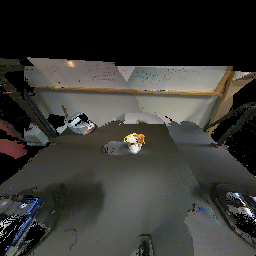
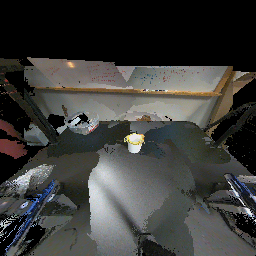
update cropping

diff --git a/data_processing.py b/data_processing.py
@@ -53,53 +53,53 @@ class Projector:
                         depth_scale,
                         depth_max
                         ):
-        depth = 2.0*np.ones((height, width, 1), dtype = float)
+        depth = 10.0*np.ones((height, width, 1), dtype = float)
         color = np.zeros((height, width, 3), dtype=np.uint8)
 
-        for obj in range(0,3):
-            obj_idxs = np.where(self.label == obj)[0]
-            for i in obj_idxs:
-                print(i)
-                point4d = np.append(self.points[i], 1)
-                new_point4d = np.matmul(extrinsic, point4d)
-                point3d = new_point4d[:-1]
-                zc = point3d[2]
-                new_point3d = np.matmul(intrinsic, point3d)
-                new_point3d = new_point3d/new_point3d[2]
-                u = int(round(new_point3d[0]))
-                v = int(round(new_point3d[1]))
+        # object order works, but not general
+        # for obj in range(0,3):
+        #     obj_idxs = np.where(self.label == obj)[0]
+        #     for i in obj_idxs:
+        #         print(i)
+        #         point4d = np.append(self.points[i], 1)
+        #         new_point4d = np.matmul(extrinsic, point4d)
+        #         point3d = new_point4d[:-1]
+        #         zc = point3d[2]
+        #         new_point3d = np.matmul(intrinsic, point3d)
+        #         new_point3d = new_point3d/new_point3d[2]
+        #         u = int(round(new_point3d[0]))
+        #         v = int(round(new_point3d[1]))
 
-                # Fixed u, v checks. u should be checked for width
-                if (u < 0 or u > width - 1 or v < 0 or v > height - 1 or zc <= 0 or zc > depth_max):
-                    continue
-                # if(zc > depth[u][v]):
-                #     continue
+        #         # Fixed u, v checks. u should be checked for width
+        #         if (u < 0 or u > width - 1 or v < 0 or v > height - 1 or zc <= 0 or zc > depth_max):
+        #             continue
+        #         if(zc > depth[v][u]):
+        #             continue
 
-                depth[v, u ] = float(zc)
-                color[v, u, :] = self.colors[i] * 255
+        #         depth[v, u ] = float(zc)
+        #         color[v, u, :] = self.colors[i] * 255
 
-        # for i in range(0, self.n):
-        #     point4d = np.append(self.points[i], 1)
-        #     new_point4d = np.matmul(extrinsic, point4d)
-        #     point3d = new_point4d[:-1]
-        #     zc = point3d[2]
-        #     new_point3d = np.matmul(intrinsic, point3d)
-        #     new_point3d = new_point3d/new_point3d[2]
-        #     u = int(round(new_point3d[0]))
-        #     v = int(round(new_point3d[1]))
 
-        #     # Fixed u, v checks. u should be checked for width
-        #     if (u < 0 or u > width - 1 or v < 0 or v > height - 1 or zc <= 0 or zc > depth_max):
-        #         continue
-        #     if(zc > depth[u][v]):
-        #         continue
 
-        #     depth[v, u ] = float(zc)
-        #     color[v, u, :] = self.colors[i] * 255
-        # im_color = o3d.geometry.Image(color)
-        # im_depth = o3d.geometry.Image(depth)
-        # rgbd = o3d.geometry.RGBDImage.create_from_color_and_depth(
-            # im_color, im_depth, depth_scale=1000.0, depth_trunc=depth_max, convert_rgb_to_intensity=False)
+        for i in range(0, self.n):
+            point4d = np.append(self.points[i], 1)
+            new_point4d = np.matmul(extrinsic, point4d)
+            point3d = new_point4d[:-1]
+            zc = point3d[2]
+            new_point3d = np.matmul(intrinsic, point3d)
+            new_point3d = new_point3d/new_point3d[2]
+            u = int(round(new_point3d[0]))
+            v = int(round(new_point3d[1]))
+
+            # Fixed u, v checks. u should be checked for width
+            if (u < 0 or u > width - 1 or v < 0 or v > height - 1 or zc <= 0.0 or zc > depth_max):
+                continue
+            if(zc > depth[v][u]):
+                continue
+
+            depth[v, u ] = float(zc)
+            color[v, u, :] = self.colors[i] * 255
+
         return color, depth
 
 
@@ -216,6 +216,15 @@ def get_transform( trans, quat):
     t[:3, 3] = trans
     return t
 
+def get_cube_corners( bound_box ):
+    corners = []
+    corners.append( [ bound_box[0][0], bound_box[1][0], bound_box[2][0] ])
+    corners.append( [ bound_box[0][0], bound_box[1][1], bound_box[2][0] ])
+    corners.append( [ bound_box[0][1], bound_box[1][1], bound_box[2][0] ])
+    corners.append( [ bound_box[0][1], bound_box[1][0], bound_box[2][0] ])
+
+    return corners
+
 def main():
     
     parser = argparse.ArgumentParser(description="extract interested object and traj from rosbag")
@@ -254,30 +263,51 @@ def main():
     
     # cam_extrinsic = inv(cam_extrinsics[0])
 
-
+    # min_bound = np.array([-0.2, -1.0, 0.0])
+    # max_bound = np.array([ 0.4,  1.0, 0.6])
+    bound_box = np.array( [ [-0.2, 0.35], [ -1.0 , 1.0], [ -0.1 , 0.4] ] )
+    vol = o3d.visualization.SelectionPolygonVolume()
+    vol.orthogonal_axis = "Z"
+    vol.axis_max = 1.0
+    vol.axis_min = -1.0
     ply_point_cloud = o3d.data.PLYPointCloud()
     object_pcd = o3d.io.read_point_cloud("./mug1.ply")
+
     # object_pcd = object_pcd.uniform_down_sample( every_k_points=5 )
     # print(pcd)
     # print(np.asarray(pcd.points))
     # o3d.visualization.draw_geometries([object_pcd])
+    corners = get_cube_corners(bound_box)
+    # for i in range(0,2):
+    #     for j in range(0,2):
+    #         for k in range(0,2):       
+    #             corners.append( [ bound_box[0][i], bound_box[1][j], bound_box[2][k] ] )
+    corners = np.array(corners)
+    bounding_polygon = corners.astype("float64")
+
     obj_name = "mug"
     idx = 0
     tmp_F_reg = np.eye(4)
+
     for topic, msg, t in bagIn.read_messages(topics=["/segmented_pointcloud"]):
         idx += 1
         if( idx != 1):
             continue
         pcd, label, segmented_pointclouds = convertCloudFromRosToOpen3d( msg )
+        o3d.visualization.draw_geometries([pcd])
+  
         
-        # o3d.visualization.draw_geometries([pcd])
 
-        p = Projector(pcd, label)
-        # rgbd = p.project_to_rgbd(1920,1080, cam_intrinsic, cam_extrinsic, 1000,10)
-        for cam_idx, cam_extrinsic in enumerate(cam_extrinsics,0):
-            rgb, depth = p.project_to_rgbd(256, 256, cam_intrinsic, inv(cam_extrinsic), 1000,10)
-            data = im.fromarray(rgb) 
-            data.save('cam{}_img{}.png'.format(cam_idx,idx)) 
+        vol.bounding_polygon = o3d.utility.Vector3dVector(bounding_polygon)
+        cropped_pcd = vol.crop_point_cloud(pcd)
+        o3d.visualization.draw_geometries([cropped_pcd])
+
+        # p = Projector(pcd, label)
+
+        # for cam_idx, cam_extrinsic in enumerate(cam_extrinsics,0):
+        #     rgb, depth = p.project_to_rgbd(256, 256, cam_intrinsic, inv(cam_extrinsic), 1000,10)
+        #     data = im.fromarray(rgb) 
+        #     data.save('cam{}_img{}.png'.format(cam_idx,idx)) 
 
         # for pcd in segmented_pointclouds:
             # print(pcd)
